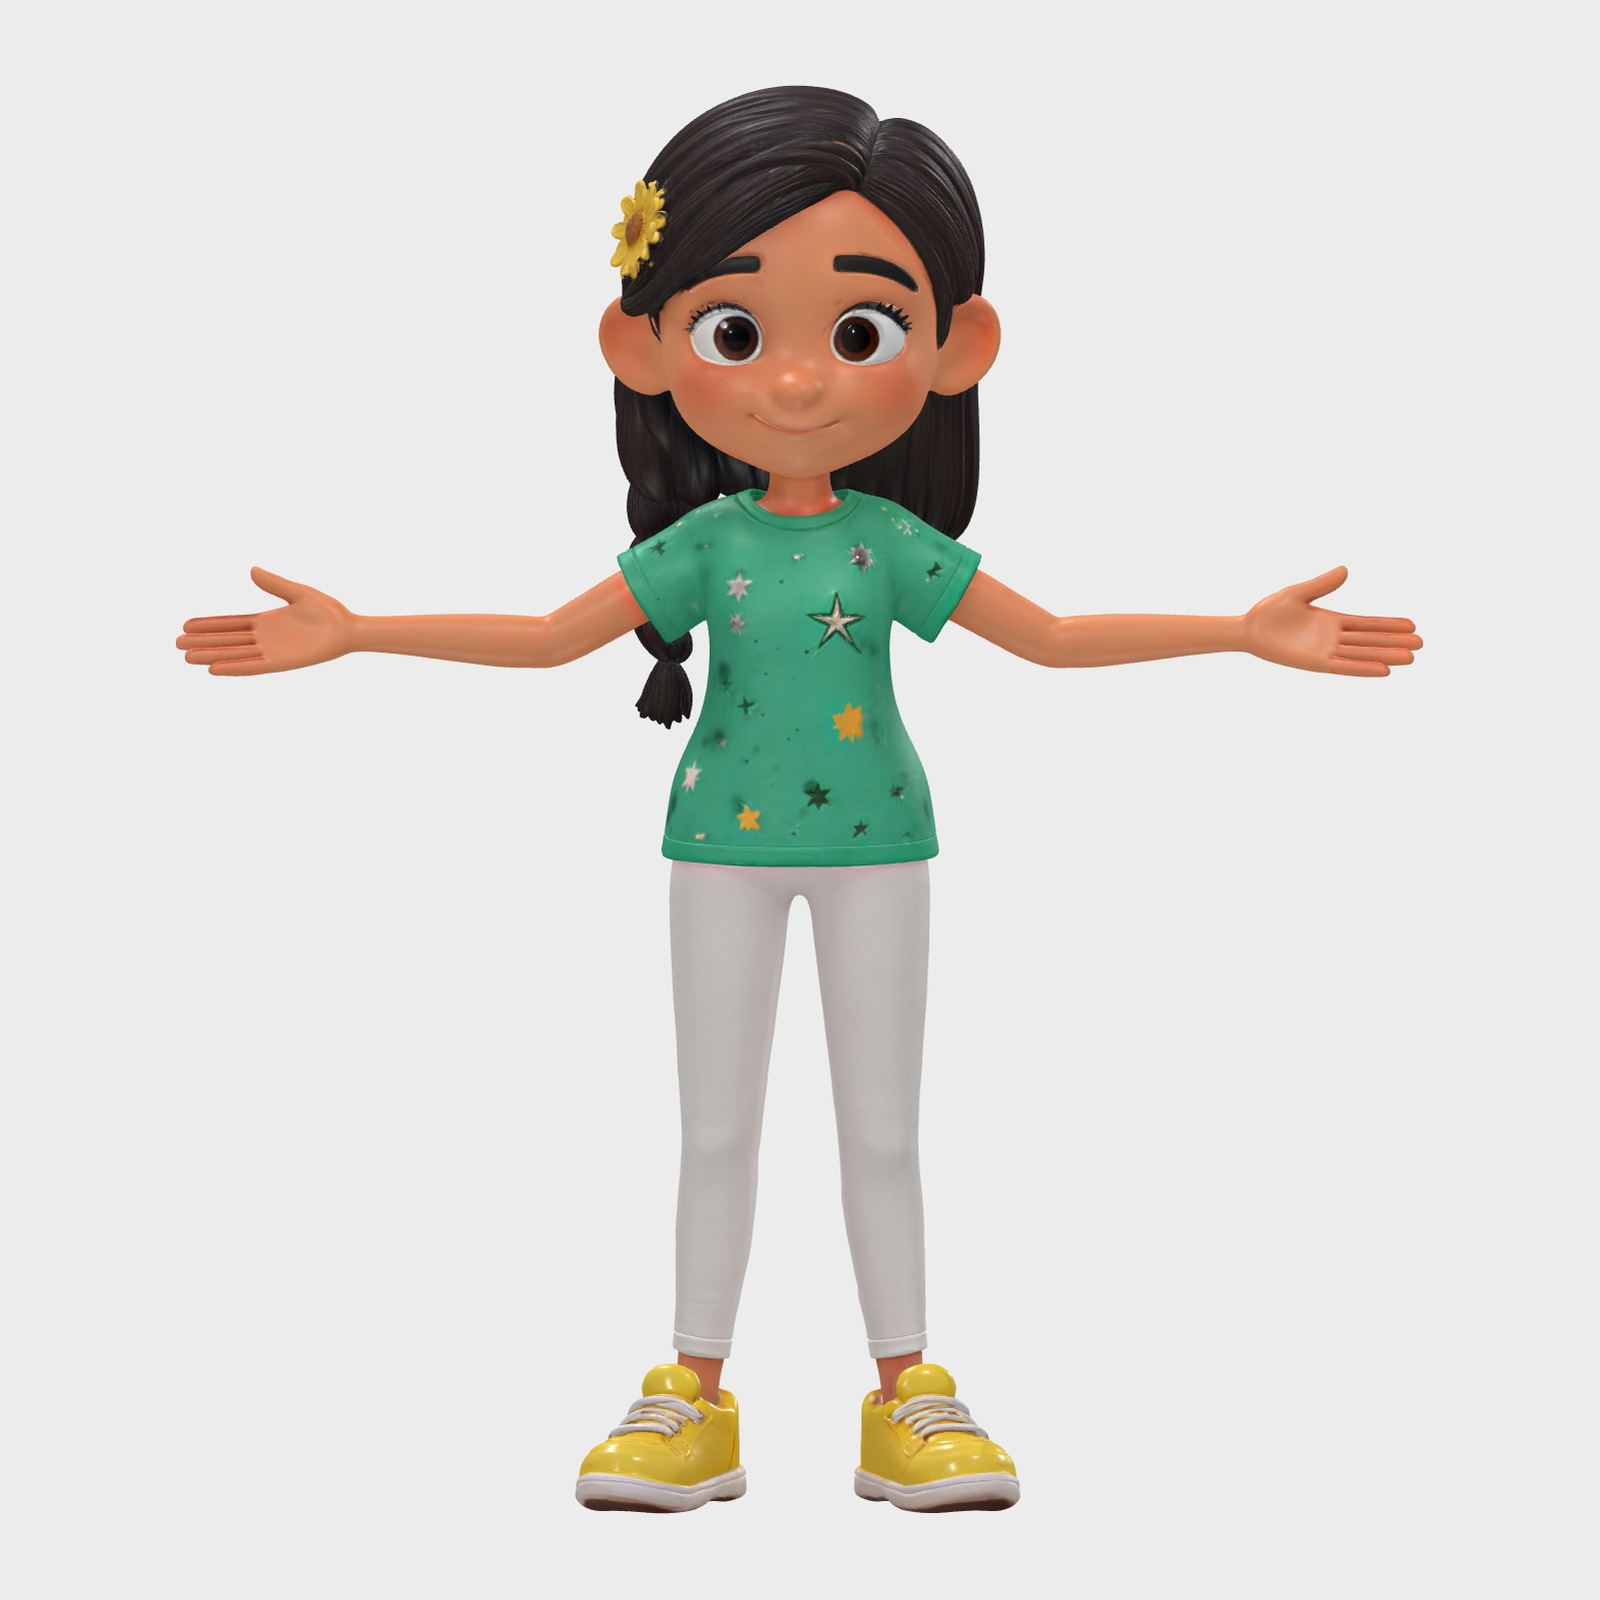
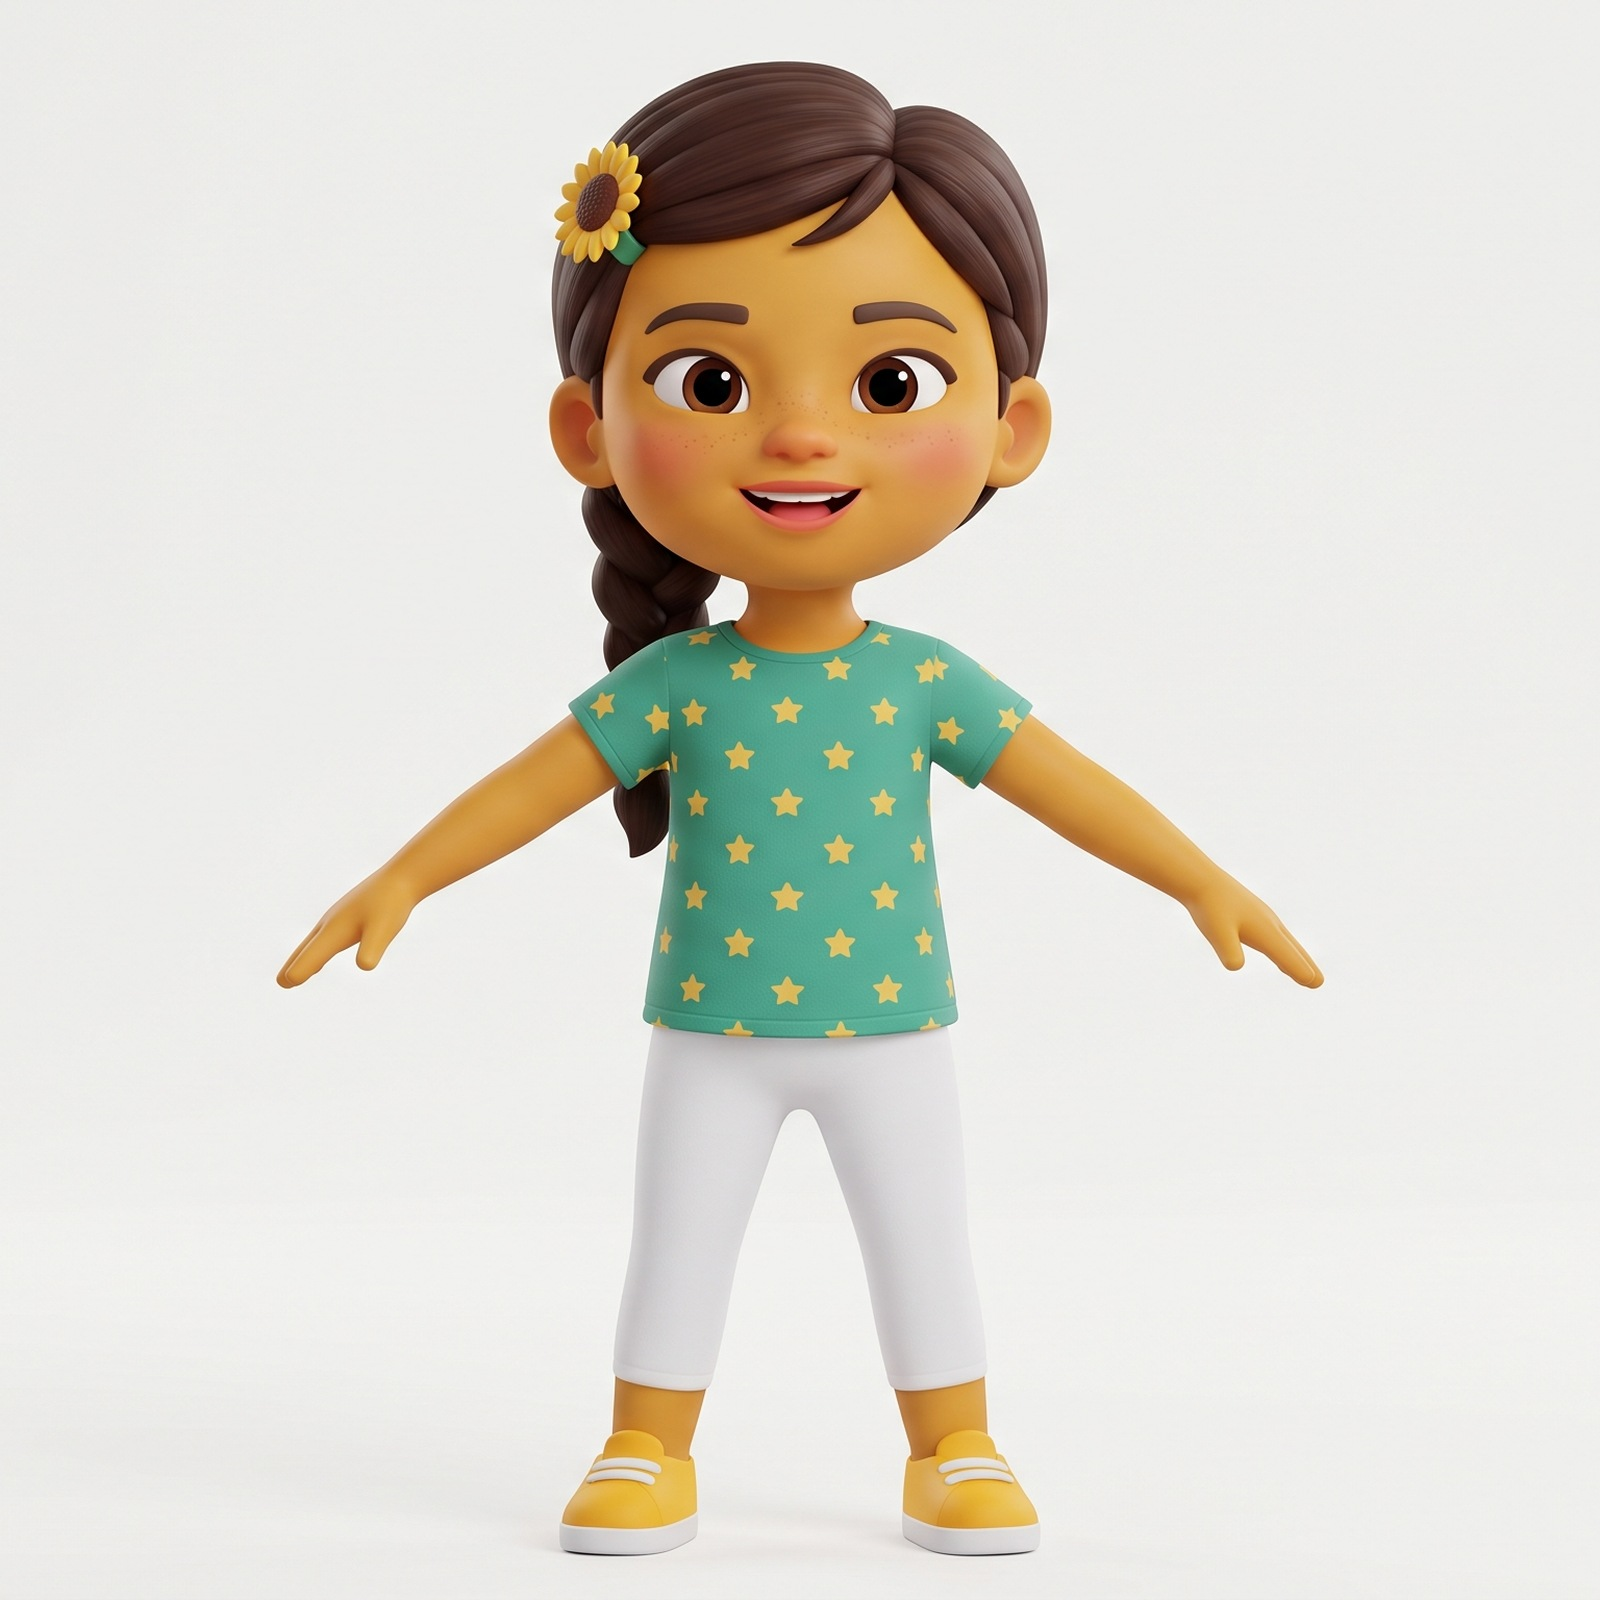
butterfly gate 1b: toddler-proportioned Priya ref + updated prompts; RA redo, RB, V1a, V2a on Wan 3.0 (4/4, 26 s, est $2.60 list); old RA kept as -v1-tall-priya; queue record [skip ci]

Changed region(s): [[0.0938, 0.0312, 0.9062, 1.0]]

diff --git a/tests/test_song_cuts_reuse.py b/tests/test_song_cuts_reuse.py
@@ -60,7 +60,7 @@ with tempfile.TemporaryDirectory() as td:
     r = subprocess.run([sys.executable, str(ROOT / "comfy/song_cuts.py"), str(td), "cut", "--lang", "both", "--src", "out",
                         "--preview", "--song-folder", str(folder), "--out-dir", str(td / "cuts")],
                        capture_output=True, text=True)
-    print(r.stdout[-1500:]); print(r.stderr[-1500:])
+    print("\n".join(l for l in r.stdout.splitlines() if "wrote " in l or "plan:" in l)); print(r.stderr[-1500:])
     assert r.returncode == 0, "song_cuts failed"
     assert r.stdout.count("video frames = plan") == 2, "frame check line missing"
     assert "holds last frame" not in r.stdout, "a clip is too short for its slot"

diff --git a/queue/2026-10-02-butterfly-gate1b/item-01.report.md b/queue/2026-10-02-butterfly-gate1b/item-01.report.md
@@ -1,0 +1,60 @@
+# item-01 report — keep old RA, checks, render RA + RB + V1a + V2a, sheets, commit (≤ $2.80 list)
+
+## 1. Old RA kept (renamed, not copied or deleted)
+- `songs\a07-butterfly\out\RA-seed30313-w3.mp4` → `RA-seed30313-w3-v1-tall-priya.mp4`, and `RA-seed30313-w3.json` →
+  `RA-seed30313-w3-v1-tall-priya.json`. md5 is the same before and after the rename.
+- Step 7 would also have overwritten the old RA's review images, so before building the new ones CC renamed these in `_qc\`:
+  - `RA-contact.png` → `RA-contact-v1-tall-priya.png`, as the item asks;
+  - `RA-f000/f060/f120/f180/f239.png` → `…-v1-tall-priya.png`. The new `RA-f000.png` / `RA-f239.png` would otherwise have replaced
+    the first and last of these.
+  - Fable's `RA-flap-40-100.png` is untouched.
+- ⚠ **`_qc\RA-strip.png` was overwritten by the runner itself.** `batch_runner.py` writes `<ID>-strip.png` automatically when a clip
+  finishes (13:28:31 local, when the new RA finished). The item says the `_qc\RA-*` files stay as they are, but this one is
+  replaced on any re-render of RA. **Restored:** CC regenerated the old strip from the kept old take with the runner's own
+  `write_qc_strip()` (frames 0/20/40/60/80) → `_qc\RA-strip-v1-tall-priya.png`. `RA-strip.png` now belongs to the new RA.
+  Suggestion for Fable: future redo items should also rename `<ID>-strip.png` before rendering.
+
+## 2–5. Checks
+- **Mock:** `PASS: refs+labels, loop first/last frame (prime), API-rule refusal, --max-usd cap, no secrets/URLs in sidecars`.
+- **Credentials:** `credentials present: True`. No values were printed.
+- **Gates:**
+  - `test_prompt_lint` → `PASS: prompt_lint catches 4 failure patterns, passes 2 fixed ones`;
+  - `prompt_lint --song songs\a07-butterfly` → **`LINT PASS: 33 shots, 0 fail, 0 warn`**;
+  - `test_song_cuts_reuse --plan-only` → `PASS (plan only): rowboat order unchanged; butterfly 47/48 slots, re-use + trims fit`.
+- **Dry-run** (`--only RA,RB,V1a,V2a`): 4 rows, all `720P 16:9 audio=off`, **`estimated $2.60`**, 0 MISSING/ERROR hits.
+  - RA 8 s refs=6 (Mintu, Minnu, Leo, Priya, Amma, Mrs Meena)
+  - RB 8 s refs=4 (Mintu, Minnu, Leo, Priya)
+  - V1a 5 s refs=3 (Mintu, Leo, the red butterfly)
+  - V2a 5 s refs=3 (Minnu, Priya, the yellow butterfly)
+
+## 6. Render
+**Window: 17:25:16 → 17:35:58 UTC, 2026-10-02** (13:25:16 → 13:35:58 Toronto EDT). `--hosts api` (one at a time), `--max-usd 2.80`;
+the runner exited 0.
+
+| clip | status | task id | wall s | length | frames | refs | est (list) | stills |
+|---|---|---|---|---|---|---|---|---|
+| RA | done | `bd00942f-cdea-44ca-84fe-2e2f610fea04` | 189.1 | 8 s | 240 | 6 (Mintu, Minnu, Leo, Priya, Amma, Mrs Meena) | $0.80 | f000 / f119 / f239 |
+| RB | done | `9ef158f1-3bb4-420b-bc37-116ab8f53fba` | 172.7 | 8 s | 240 | 4 (Mintu, Minnu, Leo, Priya) | $0.80 | f000 / f119 / f239 |
+| V1a | done | `60e3eefe-b3c7-4de9-b6de-5aa7bd404d6d` | 154.7 | 5 s | 150 | 3 (Mintu, Leo, the red butterfly) | $0.50 | f000 / f074 / f149 |
+| V2a | done | `cfeaaefb-e714-4747-9066-4984b0a24b4a` | 116.0 | 5 s | 150 | 3 (Minnu, Priya, the yellow butterfly) | $0.50 | f000 / f074 / f149 |
+
+- **Total: 26 s, estimated $2.60 at list price** (~$1.82 with the 30% discount); cap $2.80.
+- **Failures:** none. All four are 1280×720 @ 30 fps (frames counted by ffprobe), video only. Each sidecar prompt equals its
+  `*.raw.txt`. No URL or key appears in the sidecars or in the log. All 4 status cells are `done`.
+
+## 7. Sheets and stills
+In `C:\Projects\opencode\video_image\songs\a07-butterfly\out\_qc\`:
+- `<ID>-contact.png`: 5×2, 10 frames evenly spaced, 384 wide → 1920×432.
+- 100% stills of the first, middle and last frame (1280×720): `RA-f000.png`, `RA-f119.png`, `RA-f239.png`; `RB-f000.png`, `RB-f119.png`,
+  `RB-f239.png`; `V1a-f000.png`, `V1a-f074.png`, `V1a-f149.png`; `V2a-f000.png`, `V2a-f074.png`, `V2a-f149.png`.
+- Old RA, kept: `RA-contact-v1-tall-priya.png`, `RA-f000/f060/f120/f180/f239-v1-tall-priya.png`, `RA-strip-v1-tall-priya.png`
+  (regenerated), and `..\RA-seed30313-w3-v1-tall-priya.mp4` (+ `.json`).
+
+Clips: `C:\Projects\opencode\video_image\songs\a07-butterfly\out\RA-seed30313-w3.mp4`, `RB-seed30313-w3.mp4`, `V1a-seed30313-w3.mp4`,
+`V2a-seed30313-w3.mp4` (+ `.json` each). Log: `C:\Projects\opencode\video_image\songs\a07-butterfly\batch_gate1b.log`.
+Nothing was written to `C:\Channel Contents\MinMiniKids\songs\A07-Butterfly\`. `songs\rowboat\` was not touched.
+
+## 8. Commit
+The `[skip ci]` commit containing this file. It holds `tests/test_song_cuts_reuse.py`, `songs/a07-butterfly/` except `out/` (new
+`refs/08-priya-front.jpg`, the updated `shots/*.raw.txt`, `shots.csv`, `batch_gate1b.log`) and the queue folder. The hash is in
+CC's chat reply.

diff --git a/queue/2026-10-02-butterfly-gate1b/item-01.md b/queue/2026-10-02-butterfly-gate1b/item-01.md
@@ -1,0 +1,21 @@
+# item-01 — keep old RA, checks, render RA + RB + V1a + V2a, sheets, commit (≤ $2.80 list)
+
+1. Rename (not copy, not delete) in `songs\a07-butterfly\out\`: `RA-seed30313-w3.mp4` → `RA-seed30313-w3-v1-tall-priya.mp4` and
+   `RA-seed30313-w3.json` → `RA-seed30313-w3-v1-tall-priya.json`. The `_qc\RA-*` files stay as they are.
+2. `python tests\test_wan3_mock.py` → PASS.  3. Credentials check (as in the Shorts queues) → True.
+4. **Gates:** `python tests\test_prompt_lint.py` → PASS; `python comfy\prompt_lint.py --song songs\a07-butterfly` →
+   `LINT PASS: 33 shots, 0 fail, 0 warn`; `python tests\test_song_cuts_reuse.py --plan-only` → PASS. Any failure → **blocked**.
+5. Dry-run: `python comfy\batch_runner.py --song songs\a07-butterfly --only RA,RB,V1a,V2a --hosts api --dry-run`
+   → 4 rows, all `720P 16:9 audio=off`; RA 8 s refs=6, RB 8 s refs=4, V1a 5 s refs=3 (Mintu, Leo, the red butterfly),
+   V2a 5 s refs=3 (Minnu, Priya, the yellow butterfly); "estimated $2.60"; no MISSING/ERROR. Else → **blocked**.
+6. Render:
+   ```
+   python comfy\batch_runner.py --song songs\a07-butterfly --only RA,RB,V1a,V2a --hosts api --max-usd 2.80 --timeout-min 40 2>&1 | tee songs\a07-butterfly\batch_gate1b.log
+   ```
+7. For each of the 4 clips: contact sheet `songs\a07-butterfly\out\_qc\<ID>-contact.png` (5×2, 10 frames evenly spaced, 384 wide;
+   RA's overwrites the old RA sheet — first rename the old one to `RA-contact-v1-tall-priya.png`) + 100% stills of the first,
+   middle and last frame (`_qc\<ID>-f000.png`, `-fMID.png` with the real frame number, `-fLAST.png` likewise).
+8. Commit with `[skip ci]` and push: `tests/test_song_cuts_reuse.py`, `songs/a07-butterfly/` (everything except `out/`),
+   `queue/2026-10-02-butterfly-gate1b`. **Do not judge the clips.**
+**item-01.report.md:** rename done; checks; dry-run rows + total; run window UTC + Toronto; per clip: task id, wall s, length,
+frames, refs, est; failure lines verbatim; sheet/still paths; commit hash.

diff --git a/queue/2026-10-02-butterfly-gate1b/QUEUE.md b/queue/2026-10-02-butterfly-gate1b/QUEUE.md
@@ -1,0 +1,19 @@
+# CC QUEUE — 2026-10-02 "Butterfly gate 1b + 2": A07 Butterfly rev 3.2 — RA again (new Priya ref) + RB, V1a, V2a on Wan 3.0
+
+**Repo:** `C:\Projects\opencode\video_image` · **Executor:** CC (Sonnet is fine) · **Manager:** Fable (frame-checks after).
+Gate 1 RA came out with Priya ~1.4× taller than Minnu — Wan copied the long-legged turnaround model's proportions. Arul made a
+toddler-proportioned Priya; it is now `refs\08-priya-front.jpg` (song folder and repo; the old one is in the song folder's
+`refs\_old\`). Prompts updated (dark-brown hair, yellow stars, freckles), runsheet rev 3.2. RA status cell cleared for the redo.
+Fable's checks: `prompt_lint` LINT PASS 33/0/0, `test_song_cuts_reuse --plan-only` PASS.
+Renders **RA (8 s), RB (8 s), V1a (5 s), V2a (5 s) = 26 s, $2.60 list.** V2a (Priya + Minnu) is the real height test.
+
+## Hard limits
+- **API spend ≤ $2.80 at list price.** Only `RA,RB,V1a,V2a`. No pod, no GPU, no upscale. A failure is reported, not re-run.
+- Never print, echo or log `.env` values, the API key, the workspace id or any video URL.
+- Never touch RunPod. Never restore a `shots.csv`. Commits carry `[skip ci]`. Never commit `.env`, `logs.txt`, `nil`.
+- Do **not** write anything into `C:\Channel Contents\MinMiniKids\songs\A07-Butterfly\`. Do not touch `songs\rowboat\`.
+- Never delete or overwrite a take: the old RA is renamed first (step 1), not removed.
+
+## Protocol (markers in `queue\2026-10-02-butterfly-gate1b\`)
+As before: LOG.md start/done lines, `item-N.report.md`, `item-N.done`, `item-N.blocked` + stop.
+After item-01: `QUEUE END <time> est $<x>`, tell Arul "Butterfly gate 1b done — ask Fable to review queue\2026-10-02-butterfly-gate1b".

diff --git a/queue/2026-10-02-butterfly-gate1b/LOG.md b/queue/2026-10-02-butterfly-gate1b/LOG.md
@@ -1,0 +1,5 @@
+# LOG — queue 2026-10-02-butterfly-gate1b (append-only)
+[2026-10-02] Fable: queue written; new Priya ref (toddler proportions); RA redo + RB, V1a, V2a = 26 s, cap $2.80; lint PASS 33/0/0; plan test PASS
+[2026-10-02 13:24] item-01 start
+[2026-10-02 13:38] item-01 done: old RA renamed (-v1-tall-priya; runner overwrote RA-strip.png, regenerated old strip as RA-strip-v1-tall-priya.png), gates PASS, RA/RB/V1a/V2a rendered (26 s), window 17:25:16-17:35:58 UTC; est $2.60 list; sheets + stills
+QUEUE END 2026-10-02 13:38 est $2.60
